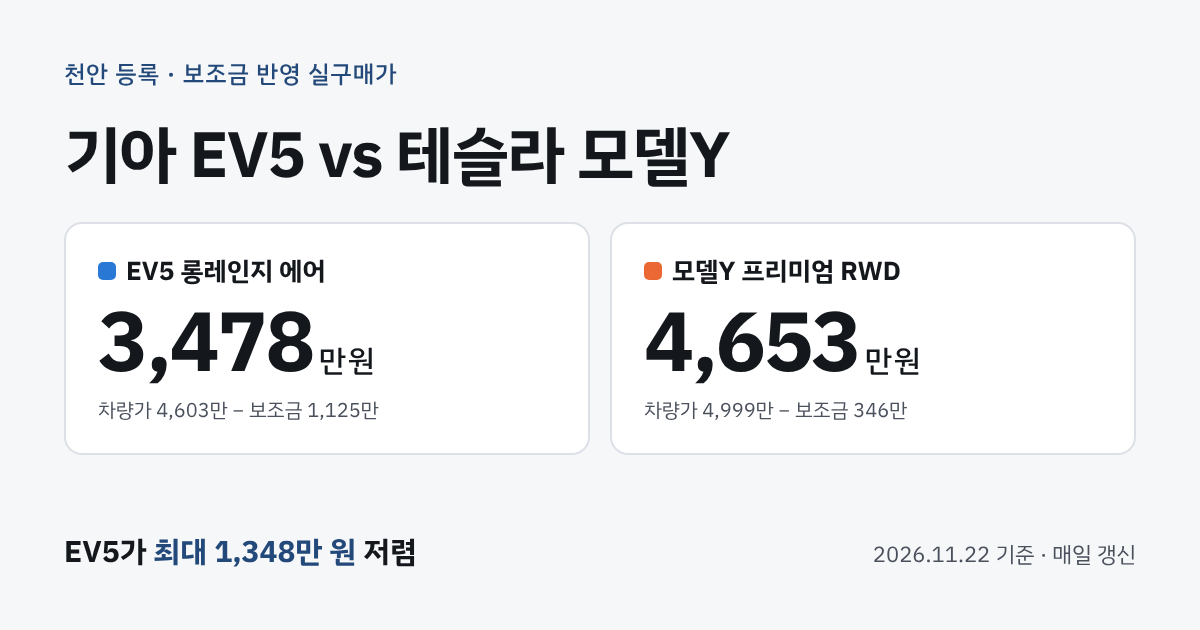
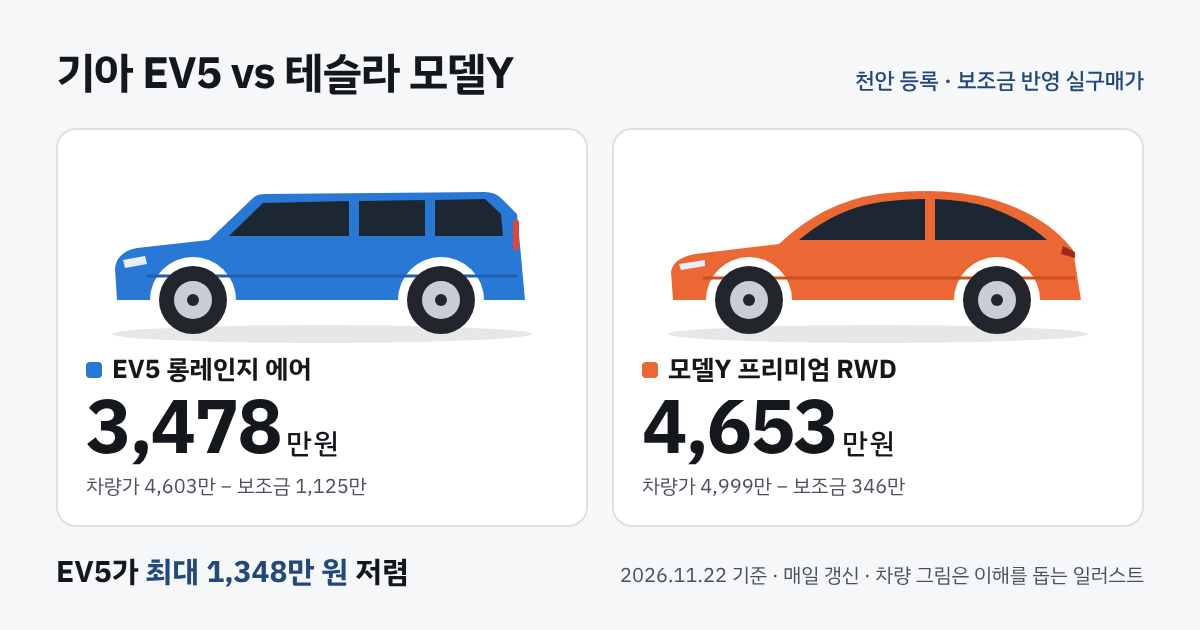
OG preview image: original car illustrations, cache-busting URL
Claude-Session: https://claude.ai/code/session_01Ddfyu6M6hA9mwok9htGwGN

diff --git a/tools/og.html b/tools/og.html
@@ -1,29 +1,63 @@
 <!doctype html>
 <html lang="ko"><head><meta charset="utf-8">
-<link rel="stylesheet" href="https://fonts.googleapis.com/css2?family=IBM+Plex+Sans+KR:wght@400;500;700&family=IBM+Plex+Mono:wght@500&display=swap">
+<link rel="stylesheet" href="https://fonts.googleapis.com/css2?family=IBM+Plex+Sans+KR:wght@400;500;700&display=swap">
 <style>
   * { box-sizing: border-box; margin: 0; }
   body { width: 1200px; height: 630px; background: #f6f7f9; font-family: "IBM Plex Sans KR", "WenQuanYi Zen Hei", sans-serif; color: #14171c; }
-  .card { position: absolute; inset: 0; padding: 56px 64px; display: flex; flex-direction: column; gap: 28px; }
-  .eyebrow { font-size: 24px; font-weight: 500; color: #23497a; letter-spacing: 0.04em; }
-  h1 { font-size: 64px; font-weight: 700; letter-spacing: -0.02em; line-height: 1.15; }
-  .row { display: grid; grid-template-columns: 1fr 1fr; gap: 20px; }
-  .box { background: #fff; border: 2px solid #dde1e7; border-radius: 18px; padding: 28px 32px; display: flex; flex-direction: column; gap: 6px; }
-  .who { display: flex; align-items: center; gap: 10px; font-size: 26px; font-weight: 700; }
-  .sw { width: 18px; height: 18px; border-radius: 5px; }
-  .num { font-size: 84px; font-weight: 700; letter-spacing: -0.03em; line-height: 1.1; font-variant-numeric: tabular-nums; }
-  .num small { font-size: 30px; font-weight: 500; margin-left: 6px; }
-  .sub { font-size: 20px; color: #4a515c; }
-  .foot { margin-top: auto; display: flex; justify-content: space-between; align-items: baseline; font-size: 22px; color: #4a515c; }
+  .card { position: absolute; inset: 0; padding: 40px 56px 36px; display: flex; flex-direction: column; gap: 22px; }
+  .top { display: flex; justify-content: space-between; align-items: baseline; }
+  h1 { font-size: 44px; font-weight: 700; letter-spacing: -0.02em; }
+  .eyebrow { font-size: 22px; font-weight: 500; color: #23497a; }
+  .row { display: grid; grid-template-columns: 1fr 1fr; gap: 24px; flex: 1; }
+  .box { background: #fff; border: 2px solid #dde1e7; border-radius: 20px; padding: 18px 28px 22px; display: flex; flex-direction: column; align-items: flex-start; }
+  .box svg { width: 100%; height: 200px; display: block; }
+  .who { display: flex; align-items: center; gap: 10px; font-size: 26px; font-weight: 700; margin-top: 2px; }
+  .sw { width: 16px; height: 16px; border-radius: 4px; }
+  .num { font-size: 76px; font-weight: 700; letter-spacing: -0.03em; line-height: 1.05; font-variant-numeric: tabular-nums; }
+  .num small { font-size: 28px; font-weight: 500; margin-left: 6px; }
+  .sub { font-size: 20px; color: #4a515c; margin-top: 2px; }
+  .foot { display: flex; justify-content: space-between; align-items: baseline; font-size: 20px; color: #4a515c; }
   .gapline { font-size: 30px; font-weight: 700; color: #14171c; }
   .gapline b { color: #23497a; }
 </style></head>
 <body><div class="card">
-  <div class="eyebrow">천안 등록 · 보조금 반영 실구매가</div>
-  <h1>기아 EV5 vs 테슬라 모델Y</h1>
+  <div class="top"><h1>기아 EV5 vs 테슬라 모델Y</h1><span class="eyebrow">천안 등록 · 보조금 반영 실구매가</span></div>
   <div class="row">
-    <div class="box"><div class="who"><i class="sw" style="background:#2a78d6"></i>EV5 롱레인지 에어</div><div class="num">3,478<small>만 원</small></div><div class="sub">차량가 4,603만 − 보조금 1,125만</div></div>
-    <div class="box"><div class="who"><i class="sw" style="background:#eb6834"></i>모델Y 프리미엄 RWD</div><div class="num">4,653<small>만 원</small></div><div class="sub">차량가 4,999만 − 보조금 346만</div></div>
+    <div class="box">
+      <!-- 박스형 SUV 옆모습 (직접 그린 일러스트) -->
+      <svg viewBox="0 0 470 200" aria-hidden="true">
+        <ellipse cx="235" cy="186" rx="210" ry="9" fill="#14171c" opacity="0.10"/>
+        <path d="M30 152 L28 120 Q30 104 50 100 L122 92 L166 50 Q170 46 178 46 L398 44 Q408 44 414 50 L430 66 L434 108 L438 152 L397 152 A43 43 0 0 0 311 152 L149 152 A43 43 0 0 0 63 152 Z" fill="#2a78d6"/>
+        <path d="M142 88 L176 55 L262 53 L262 88 Z" fill="#1d2733"/>
+        <path d="M272 53 L338 52 L338 88 L272 88 Z" fill="#1d2733"/>
+        <path d="M348 52 L398 51 L414 66 L416 88 L348 88 Z" fill="#1d2733"/>
+        <path d="M36 112 L58 108 L60 116 L38 120 Z" fill="#e8eef6"/>
+        <rect x="426" y="72" width="6" height="30" rx="2" fill="#d94a3a"/>
+        <path d="M60 128 L430 128" stroke="#1f5fae" stroke-width="3"/>
+        <circle cx="106" cy="152" r="34" fill="#22262c"/><circle cx="106" cy="152" r="19" fill="#c9ced6"/><circle cx="106" cy="152" r="6" fill="#22262c"/>
+        <circle cx="354" cy="152" r="34" fill="#22262c"/><circle cx="354" cy="152" r="19" fill="#c9ced6"/><circle cx="354" cy="152" r="6" fill="#22262c"/>
+      </svg>
+      <div class="who"><i class="sw" style="background:#2a78d6"></i>EV5 롱레인지 에어</div>
+      <div class="num">3,478<small>만 원</small></div>
+      <div class="sub">차량가 4,603만 − 보조금 1,125만</div>
+    </div>
+    <div class="box">
+      <!-- 패스트백 크로스오버 옆모습 (직접 그린 일러스트) -->
+      <svg viewBox="0 0 470 200" aria-hidden="true">
+        <ellipse cx="235" cy="186" rx="210" ry="9" fill="#14171c" opacity="0.10"/>
+        <path d="M30 152 L28 124 Q30 110 52 106 L136 96 Q180 54 236 46 Q302 38 352 52 Q404 68 430 102 L438 152 L397 152 A43 43 0 0 0 311 152 L149 152 A43 43 0 0 0 63 152 Z" fill="#eb6834"/>
+        <path d="M156 92 Q194 60 238 54 Q262 51 282 51 L282 92 Z" fill="#1d2733"/>
+        <path d="M292 51 Q322 52 346 59 Q382 72 404 92 L292 92 Z" fill="#1d2733"/>
+        <path d="M36 116 L62 112 L62 118 L38 122 Z" fill="#e8eef6"/>
+        <path d="M420 98 L432 104 L432 110 L418 106 Z" fill="#9c2b1e"/>
+        <path d="M60 130 L432 130" stroke="#c9531f" stroke-width="3"/>
+        <circle cx="106" cy="152" r="34" fill="#22262c"/><circle cx="106" cy="152" r="19" fill="#c9ced6"/><circle cx="106" cy="152" r="6" fill="#22262c"/>
+        <circle cx="354" cy="152" r="34" fill="#22262c"/><circle cx="354" cy="152" r="19" fill="#c9ced6"/><circle cx="354" cy="152" r="6" fill="#22262c"/>
+      </svg>
+      <div class="who"><i class="sw" style="background:#eb6834"></i>모델Y 프리미엄 RWD</div>
+      <div class="num">4,653<small>만 원</small></div>
+      <div class="sub">차량가 4,999만 − 보조금 346만</div>
+    </div>
   </div>
-  <div class="foot"><span class="gapline">EV5가 <b>최대 1,348만 원</b> 저렴</span><span>2026.11.22 기준 · 매일 갱신</span></div>
+  <div class="foot"><span class="gapline">EV5가 <b>최대 1,348만 원</b> 저렴</span><span>2026.11.22 기준 · 매일 갱신 · 차량 그림은 이해를 돕는 일러스트</span></div>
 </div></body></html>

diff --git a/ev5-vs-modely/index.html b/ev5-vs-modely/index.html
@@ -9,7 +9,7 @@
 <meta property="og:title" content="EV5 vs 모델Y 실구매가 비교">
 <meta property="og:description" content="천안 등록 기준 보조금 반영 실구매가 비교. 2026년 12월과 2027년 시나리오, 가격 변동, 테슬라 구매처 정리.">
 <meta property="og:url" content="https://ev5-modely.netlify.app/ev5-vs-modely/">
-<meta property="og:image" content="https://ev5-modely.netlify.app/ev5-vs-modely/og.png">
+<meta property="og:image" content="https://ev5-modely.netlify.app/ev5-vs-modely/og.png?v=2">
 <meta property="og:image:width" content="1200">
 <meta property="og:image:height" content="630">
 <meta name="twitter:card" content="summary_large_image">
